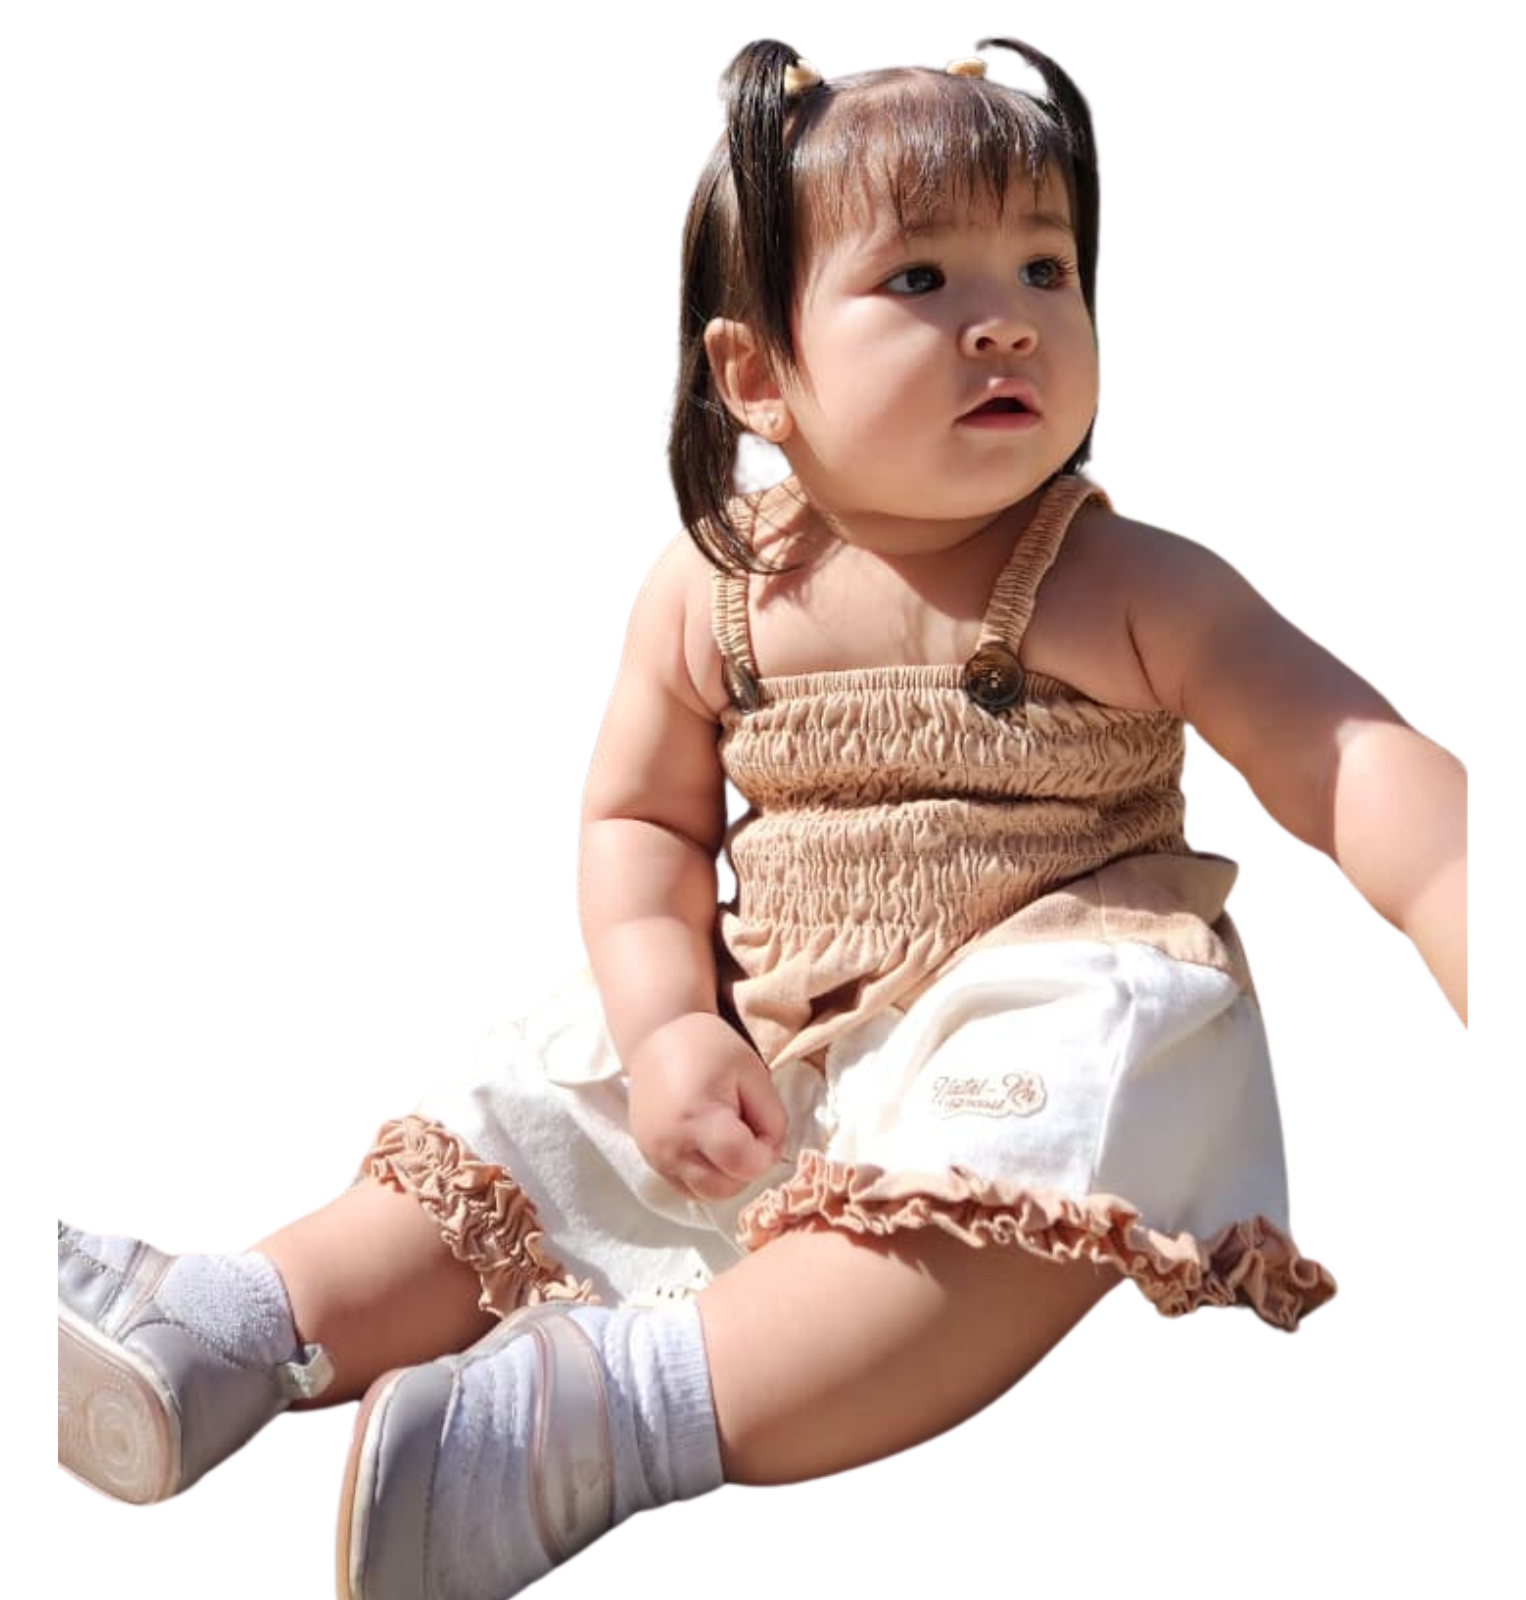
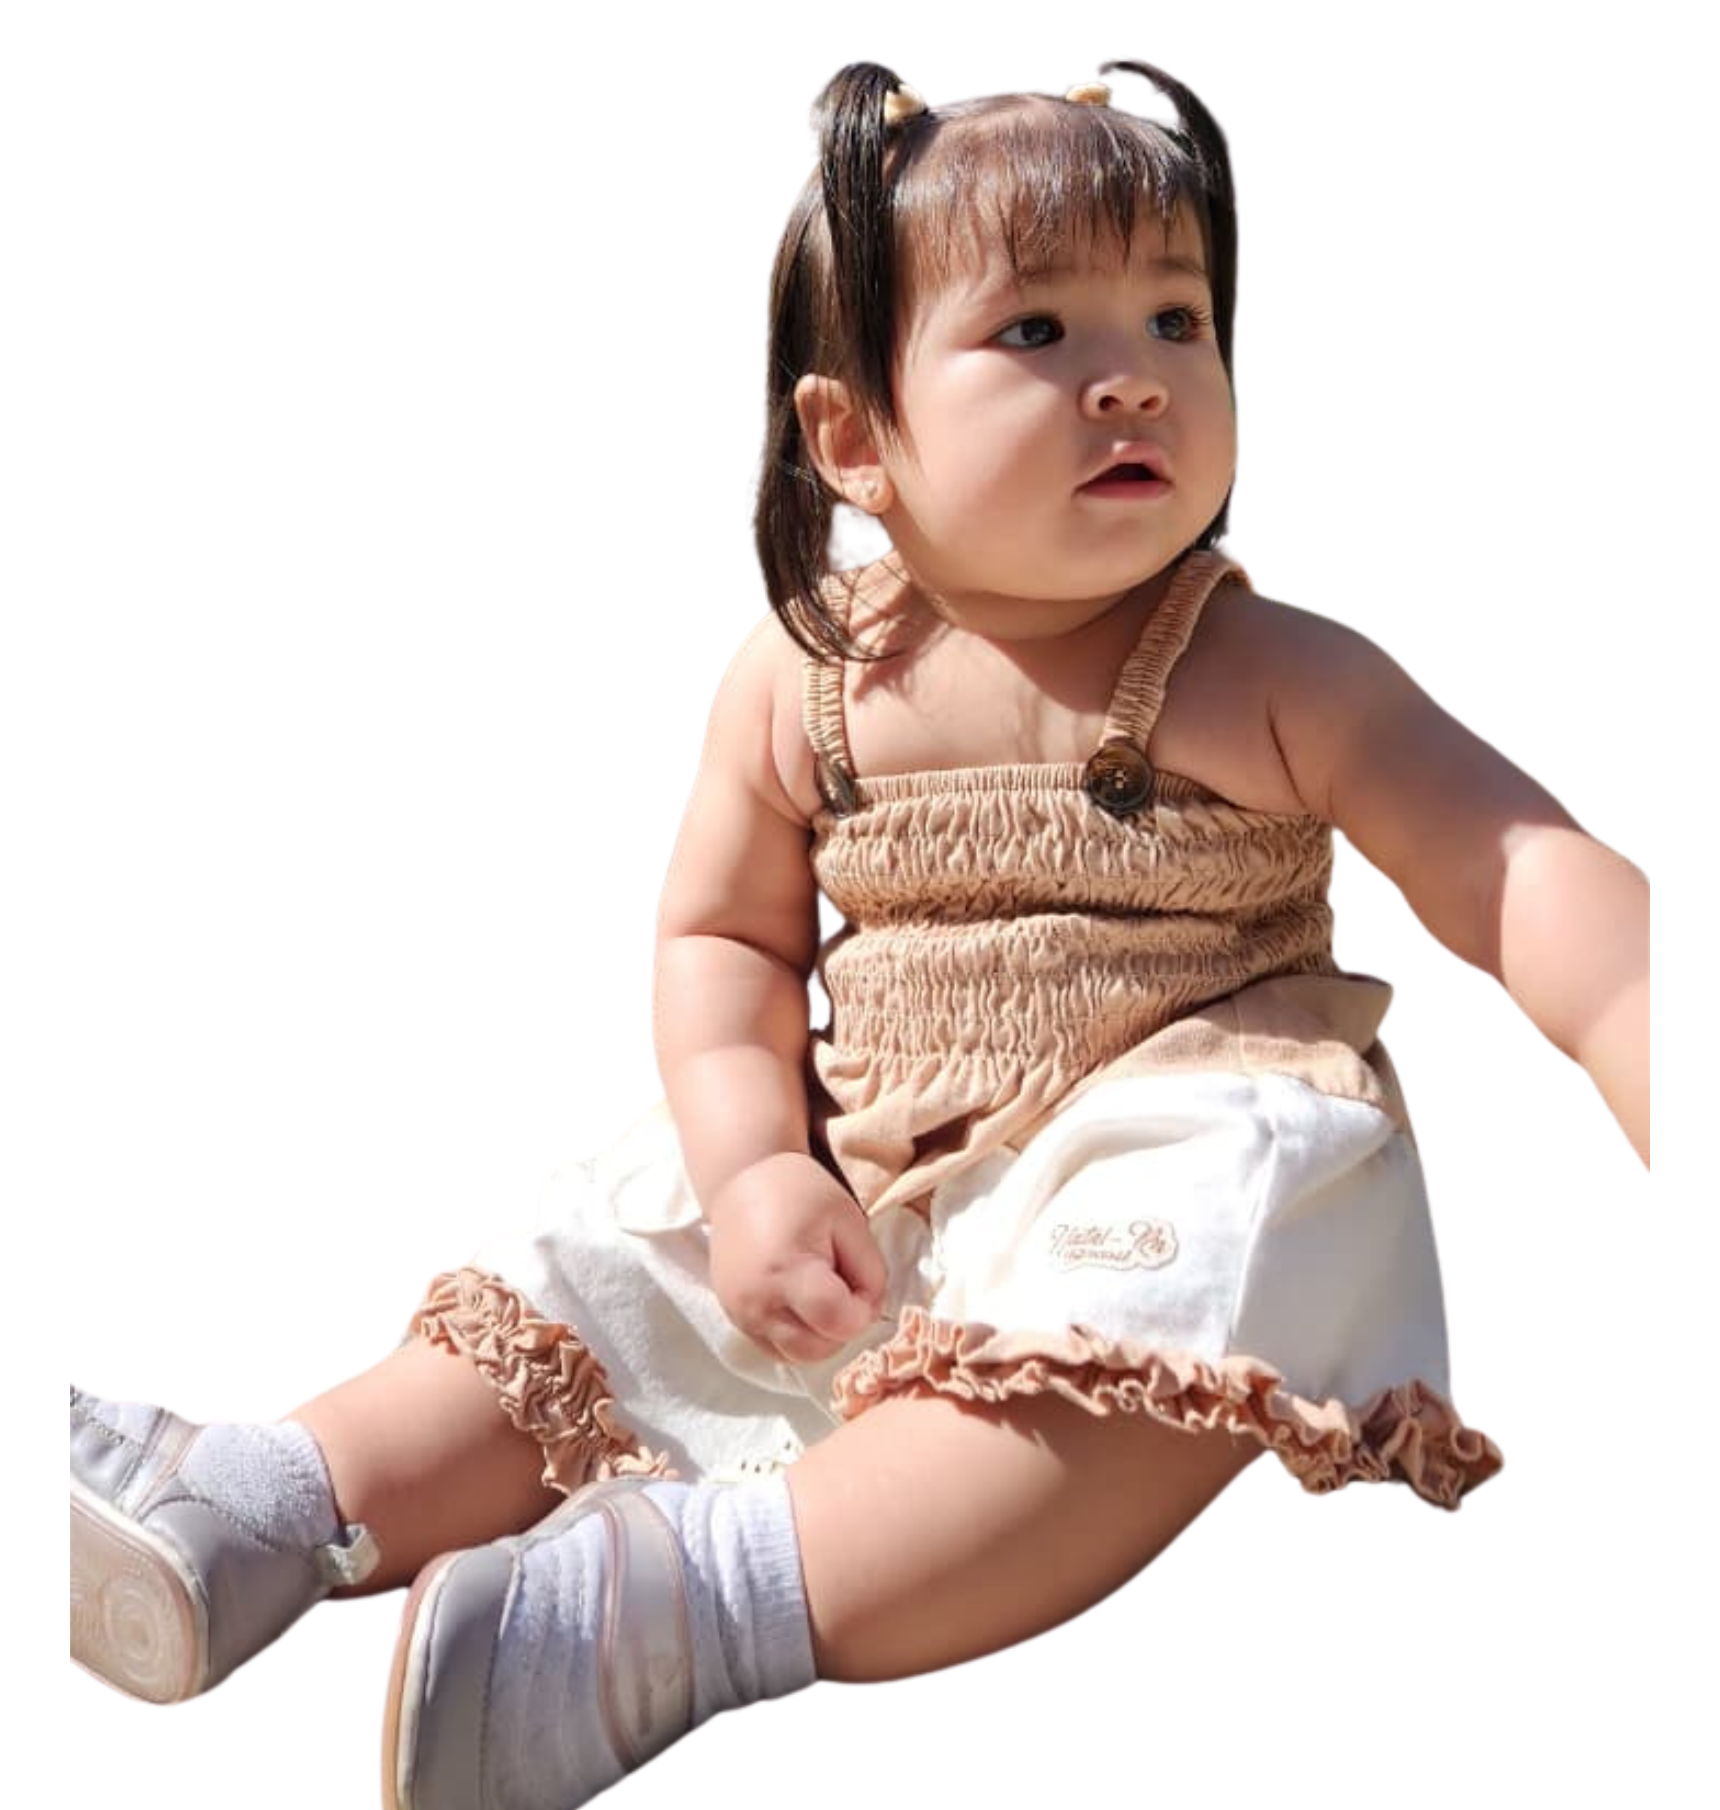
modifique altura de primer imagen de carrusel

diff --git a/index.html b/index.html
@@ -77,7 +77,7 @@
             </div>
             <div class="carousel-inner">
                 <div class="carousel-item active">
-                    <img src="img/emi20.png" class="d-block w-100 mt-2 mb-2 image" alt="emi20">
+                    <img src="img/emi20.png" class="d-block w-100 mt-2 mb-2 image20" alt="emi20">
                 </div>
                 <div class="carousel-item">
                     <img src="img/Emi1.jpeg" class="d-block w-100 mt-2 mb-2 image" alt="emi1">

diff --git a/style.css b/style.css
@@ -68,6 +68,12 @@ a{
     border-radius: 50%
 }
 
+.img20{
+    height: 600px;
+    object-fit: contain;
+    border-radius: 0%;
+}
+
 .firstYear{
     margin: 10px;
     width: 100%;
